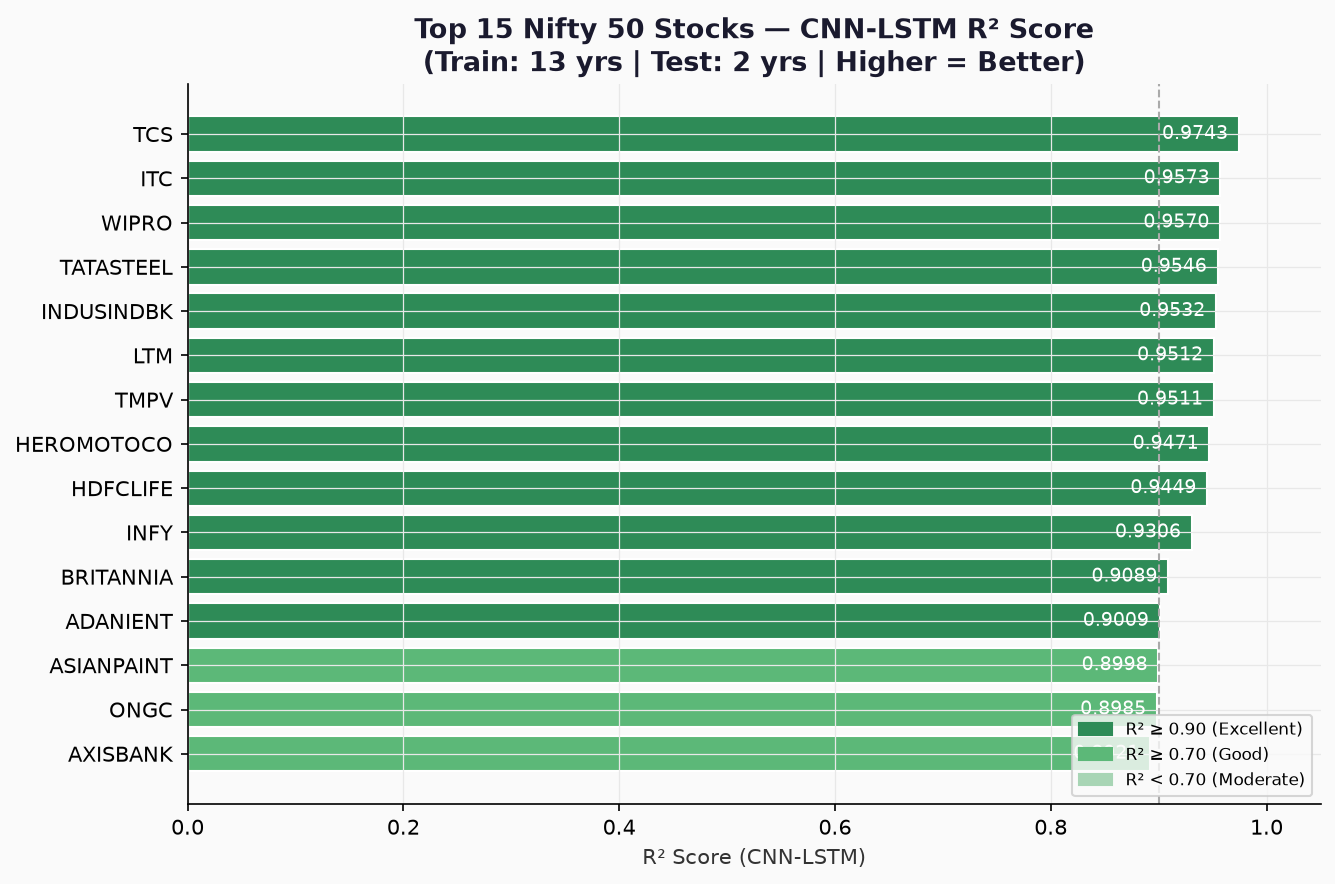
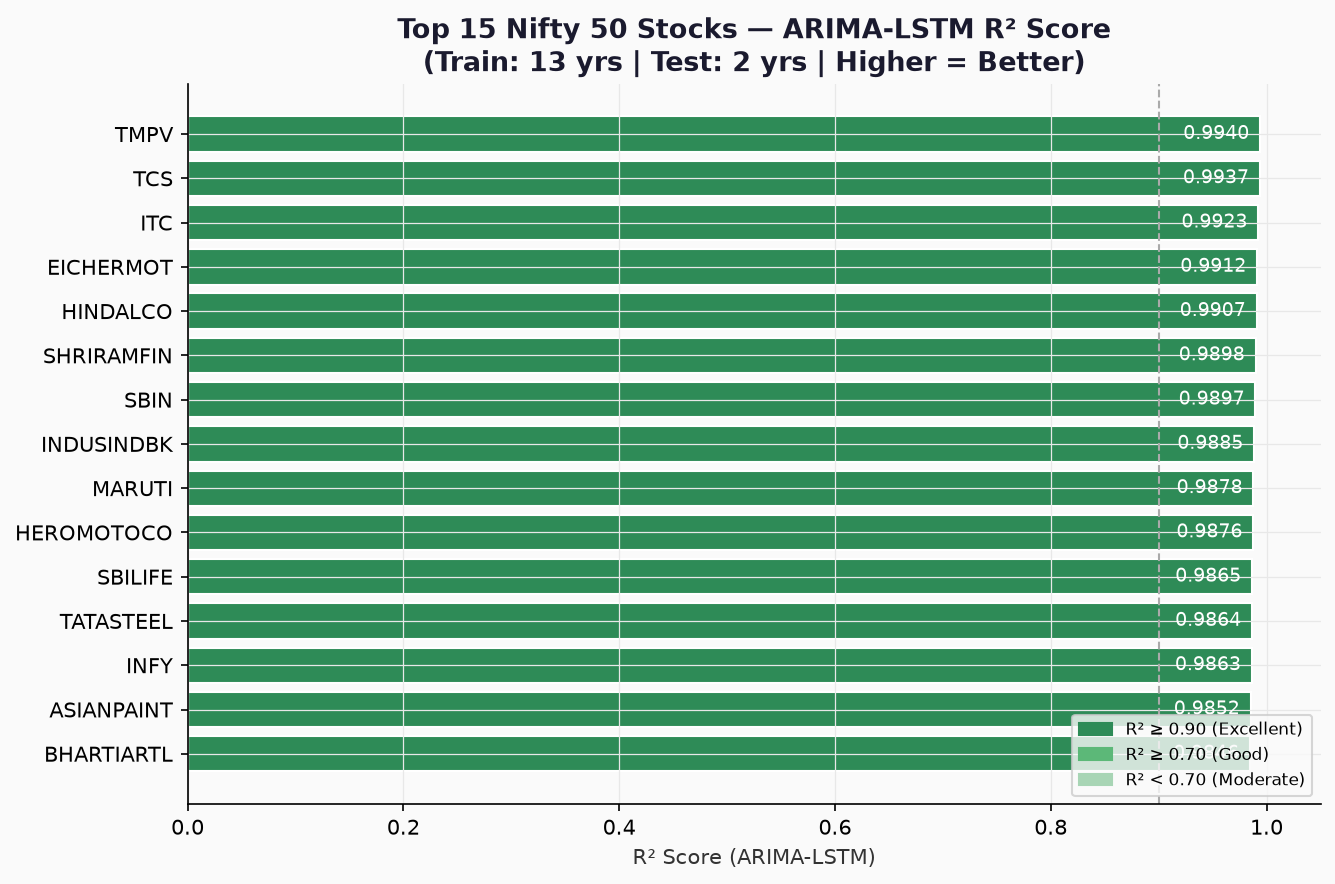
Fix graph text labels to say ARIMA-LSTM instead of CNN-LSTM

diff --git a/backend/ml_service/generate_report.py b/backend/ml_service/generate_report.py
@@ -11,8 +11,8 @@
       04_mape_heatmap.png                - MAPE heatmap: stocks × models
       05_directional_accuracy.png        - Directional accuracy bar chart
       06_f1_score_heatmap.png            - F1-Score heatmap
-      07_best_model_r2_top15.png         - Top 15 stocks by R² (CNN-LSTM)
-      08_cnnlstm_scatter_r2.png          - R² scatter: CNN-LSTM vs LSTM
+      07_best_model_r2_top15.png         - Top 15 stocks by R² (ARIMA-LSTM)
+      08_cnnlstm_scatter_r2.png          - R² scatter: ARIMA-LSTM vs LSTM
     dissertation_table.xlsx              - Excel workbook with formatted tables
     dissertation_report.html             - Full HTML report (open in browser)
 
@@ -112,8 +112,8 @@ for pv in [pv_rmse, pv_mape, pv_r2, pv_acc, pv_prec, pv_rec, pv_f1]:
             pv[col] = np.nan
     pv = pv[MODEL_ORDER]
 
-# CNN-LSTM best-model frame
-cnn = df_raw[df_raw["Model"] == "CNN-LSTM"].set_index("Symbol")
+# ARIMA-LSTM best-model frame
+al = df_raw[df_raw["Model"] == "ARIMA-LSTM"].set_index("Symbol")
 
 # ---------------------------------------------------------------------------
 # Figure 1 – Average MAPE by Model (bar chart)
@@ -296,22 +296,22 @@ plt.close()
 print(f"  Saved: {p6}")
 
 # ---------------------------------------------------------------------------
-# Figure 7 – Top 15 stocks by CNN-LSTM R² (horizontal bar)
+# Figure 7 – Top 15 stocks by ARIMA-LSTM R² (horizontal bar)
 # ---------------------------------------------------------------------------
-print("[7/8] Top 15 CNN-LSTM R² …")
-cnn_r2 = cnn["R2"].dropna().sort_values(ascending=False).head(15)
+print("[7/8] Top 15 ARIMA-LSTM R² …")
+al_r2 = al["R2"].dropna().sort_values(ascending=False).head(15)
 
 fig, ax = plt.subplots(figsize=(9, 6))
-colors_bar = ["#2E8B57" if v >= 0.9 else "#5CB878" if v >= 0.7 else "#A8D5B5" for v in cnn_r2.values]
-bars = ax.barh(cnn_r2.index, cnn_r2.values, color=colors_bar, edgecolor="white")
-for bar, val in zip(bars, cnn_r2.values):
+colors_bar = ["#2E8B57" if v >= 0.9 else "#5CB878" if v >= 0.7 else "#A8D5B5" for v in al_r2.values]
+bars = ax.barh(al_r2.index, al_r2.values, color=colors_bar, edgecolor="white")
+for bar, val in zip(bars, al_r2.values):
     ax.text(val - 0.01, bar.get_y() + bar.get_height()/2,
             f"{val:.4f}", va="center", ha="right", fontsize=9,
             color="white" if val > 0.5 else "#333")
 
 ax.axvline(0.9, color="#aaa", linewidth=1, linestyle="--", label="R²=0.90 threshold")
-ax.set_xlabel("R² Score (CNN-LSTM)", **FONT_AXIS)
-ax.set_title("Top 15 Nifty 50 Stocks — CNN-LSTM R² Score\n(Train: 13 yrs | Test: 2 yrs | Higher = Better)", **FONT_TITLE)
+ax.set_xlabel("R² Score (ARIMA-LSTM)", **FONT_AXIS)
+ax.set_title("Top 15 Nifty 50 Stocks — ARIMA-LSTM R² Score\n(Train: 13 yrs | Test: 2 yrs | Higher = Better)", **FONT_TITLE)
 ax.invert_yaxis()
 ax.set_xlim(0, 1.05)
 ax.legend(fontsize=9)
@@ -328,31 +328,31 @@ plt.close()
 print(f"  Saved: {p7}")
 
 # ---------------------------------------------------------------------------
-# Figure 8 – CNN-LSTM vs LSTM R² scatter
+# Figure 8 – ARIMA-LSTM vs LSTM R² scatter
 # ---------------------------------------------------------------------------
-print("[8/8] CNN-LSTM vs LSTM R² scatter …")
+print("[8/8] ARIMA-LSTM vs LSTM R² scatter …")
 lstm_r2  = df_raw[df_raw["Model"] == "LSTM"].set_index("Symbol")["R2"]
-cnn_r2_s = df_raw[df_raw["Model"] == "CNN-LSTM"].set_index("Symbol")["R2"]
-common = lstm_r2.index.intersection(cnn_r2_s.index)
+al_r2_s = df_raw[df_raw["Model"] == "ARIMA-LSTM"].set_index("Symbol")["R2"]
+common = lstm_r2.index.intersection(al_r2_s.index)
 
 fig, ax = plt.subplots(figsize=(8, 7))
 x = lstm_r2.loc[common].values
-y = cnn_r2_s.loc[common].values
+y = al_r2_s.loc[common].values
 ax.scatter(x, y, s=60, alpha=0.75, c="#2E8B57", edgecolors="white", linewidth=0.8)
 for sym in common:
-    if abs(cnn_r2_s[sym] - lstm_r2[sym]) > 0.15 or cnn_r2_s[sym] > 0.85:
-        ax.annotate(sym, (lstm_r2[sym], cnn_r2_s[sym]),
+    if abs(al_r2_s[sym] - lstm_r2[sym]) > 0.15 or al_r2_s[sym] > 0.85:
+        ax.annotate(sym, (lstm_r2[sym], al_r2_s[sym]),
                     textcoords="offset points", xytext=(5, 4), fontsize=7, color="#555")
 
 lims = [min(x.min(), y.min()) - 0.1, max(x.max(), y.max()) + 0.1]
-ax.plot(lims, lims, "k--", linewidth=1, alpha=0.4, label="LSTM = CNN-LSTM line")
+ax.plot(lims, lims, "k--", linewidth=1, alpha=0.4, label="LSTM = ARIMA-LSTM line")
 ax.axhline(0, color="#ddd", linewidth=0.8); ax.axvline(0, color="#ddd", linewidth=0.8)
 ax.set_xlabel("LSTM R² Score", **FONT_AXIS)
-ax.set_ylabel("CNN-LSTM R² Score", **FONT_AXIS)
-ax.set_title("CNN-LSTM vs LSTM — R² Comparison\n(Points above diagonal = CNN-LSTM wins)", **FONT_TITLE)
+ax.set_ylabel("ARIMA-LSTM R² Score", **FONT_AXIS)
+ax.set_title("ARIMA-LSTM vs LSTM — R² Comparison\n(Points above diagonal = ARIMA-LSTM wins)", **FONT_TITLE)
 ax.legend(fontsize=9)
 above = np.sum(y > x)
-ax.text(0.05, 0.95, f"CNN-LSTM wins: {above}/{len(common)} stocks",
+ax.text(0.05, 0.95, f"ARIMA-LSTM wins: {above}/{len(common)} stocks",
         transform=ax.transAxes, fontsize=10, color="#2E8B57",
         bbox=dict(boxstyle="round,pad=0.3", facecolor="white", edgecolor="#2E8B57", alpha=0.8))
 plt.tight_layout()
@@ -382,12 +382,12 @@ try:
     model_fills = {
         "ARIMA":         "A8C4E0",
         "SARIMA":        "6FA8D0",
-        "ARIMA-LSTM": "F4D0A0",
         "XGBoost":       "F4A460",
         "LSTM":          "B0D8B0",
-        "CNN-LSTM":      "2E8B57",
+        "CNN-LSTM":      "32CD32",
+        "ARIMA-LSTM":    "2E8B57",
     }
-    model_fonts = {"CNN-LSTM": Font(color="FFFFFF", bold=True, size=9)}
+    model_fonts = {"ARIMA-LSTM": Font(color="FFFFFF", bold=True, size=9)}
 
     cols = ["Symbol", "Model", "RMSE", "MAE", "MAPE", "Accuracy (%)", "R2",
             "Directional_Accuracy", "Precision", "Recall", "F1_Score"]
@@ -424,7 +424,7 @@ try:
     ws2 = wb.create_sheet("ARIMA-LSTM Summary")
     sum_cols = ["Symbol", "RMSE", "MAE", "MAPE", "Accuracy (%)", "R2",
                 "Directional_Accuracy", "Precision", "Recall", "F1_Score"]
-    cnn_df = df_raw[df_raw["Model"] == "ARIMA-LSTM"][sum_cols].sort_values("R2", ascending=False)
+    al_df = df_raw[df_raw["Model"] == "ARIMA-LSTM"][sum_cols].sort_values("R2", ascending=False)
 
     for ci, col in enumerate(sum_cols, 1):
         cell = ws2.cell(row=1, column=ci, value=col)
@@ -432,7 +432,7 @@ try:
         cell.font = Font(color="FFFFFF", bold=True, size=10)
         cell.alignment = Alignment(horizontal="center")
 
-    for ri, row in enumerate(cnn_df.itertuples(index=False), 2):
+    for ri, row in enumerate(al_df.itertuples(index=False), 2):
         r2val = row.R2
         if r2val > 0.9:
             row_fill = PatternFill("solid", fgColor="C8EFCE")
@@ -479,7 +479,7 @@ try:
                 cell.number_format = "0.0000"
             else:
                 cell.value = val
-            cell.font      = Font(size=9, bold=(model=="CNN-LSTM"))
+            cell.font      = Font(size=9, bold=(model=="ARIMA-LSTM"))
             cell.alignment = Alignment(horizontal="center")
 
     for ci in range(1, len(avg_df.columns) + 1):
@@ -546,7 +546,7 @@ avg_df_display = (
     .reset_index()
 )
 
-cnn_top = (
+al_top = (
     df_raw[df_raw["Model"] == "ARIMA-LSTM"][[
         "Symbol", "RMSE", "MAE", "MAPE", "Accuracy (%)", "R2",
         "Directional_Accuracy", "Precision", "Recall", "F1_Score"
@@ -556,15 +556,15 @@ cnn_top = (
 )
 
 # Placeholder → value mapping
-cnn = df_raw[df_raw["Model"] == "ARIMA-LSTM"]
+al = df_raw[df_raw["Model"] == "ARIMA-LSTM"]
 replacements = {
     "{{NUM_SYMBOLS}}":    str(df_raw["Symbol"].nunique()),
-    "{{AL_AVG_R2}}":      f"{cnn['R2'].mean():.3f}",
-    "{{AL_AVG_MAPE}}":    f"{cnn['MAPE'].mean():.2f}",
-    "{{R2_ABOVE_90}}":    str(int((cnn["R2"] > 0.9).sum())),
-    "{{R2_ABOVE_0}}":     str(int((cnn["R2"] > 0.0).sum())),
+    "{{AL_AVG_R2}}":      f"{al['R2'].mean():.3f}",
+    "{{AL_AVG_MAPE}}":    f"{al['MAPE'].mean():.2f}",
+    "{{R2_ABOVE_90}}":    str(int((al["R2"] > 0.9).sum())),
+    "{{R2_ABOVE_0}}":     str(int((al["R2"] > 0.0).sum())),
     "{{TABLE_AVERAGES}}": df_to_html(avg_df_display),
-    "{{TABLE_AL}}":       df_to_html(cnn_top.reset_index(drop=True),
+    "{{TABLE_AL}}":       df_to_html(al_top.reset_index(drop=True),
                                      highlight_col="R2", green_if_high=True),
     "{{FIG_1}}": fig_tag(p1, "Figure 1: Average MAPE by Model — lower is better"),
     "{{FIG_2}}": fig_tag(p2, "Figure 2: Average RMSE and R² by Model"),